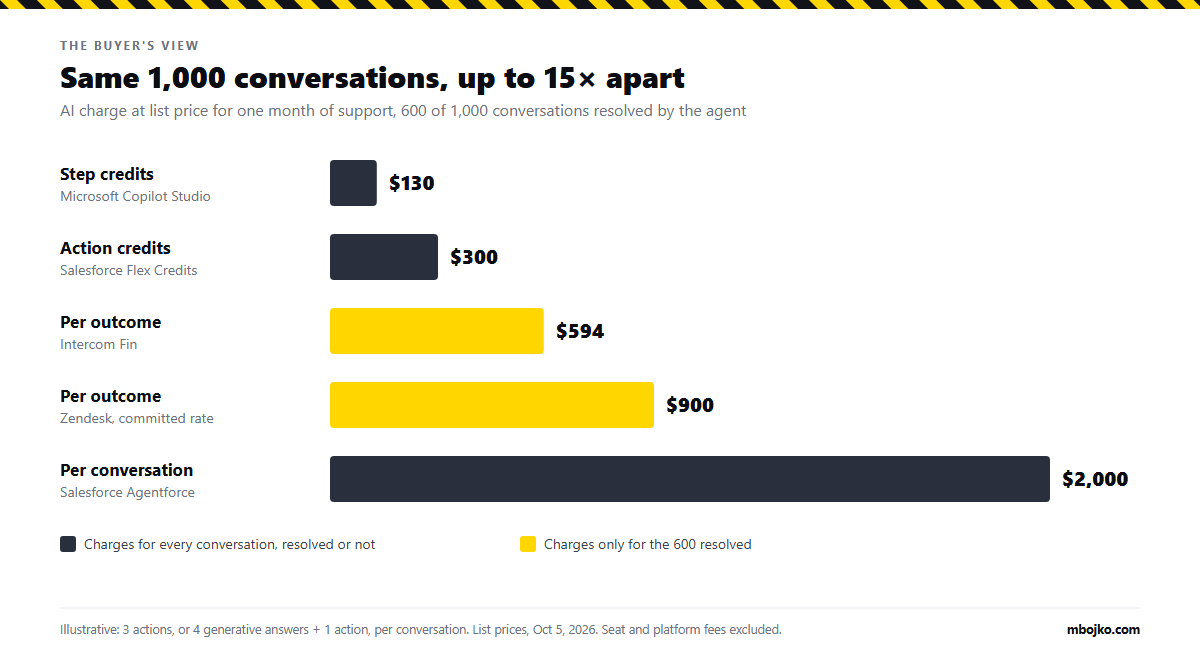
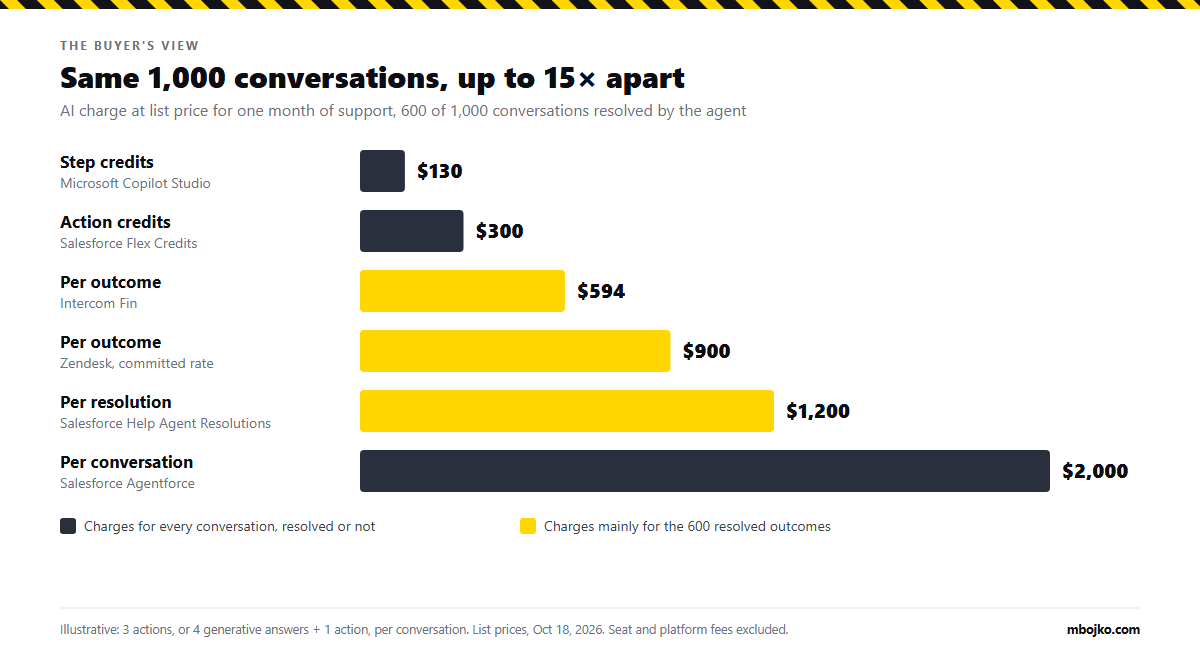
Update AI agent pricing models analysis after primary-source recheck
Dynatrace moves from the bundled row to vendor units (AI Units and Standard
Function Calls now on the public rate card). Adds Salesforce Help Agent
Resolutions to the outcome row and worked example, Intercom procedure
handoffs as billable outcomes, Zendesk verified-resolution tiers, Cursor's
current plans, GitHub per-session credit limits and Datadog's Autonomous
Agents attribution. Separates AI-app monitoring products from vendor
agents and distinguishes technical errors from runs that complete without
solving the task. Updates the cost-spread and risk infographics.

diff --git a/reports/ai-agent-pricing-models/index.html b/reports/ai-agent-pricing-models/index.html
@@ -121,34 +121,37 @@
   </div>
   <div class="article-body">
     <p class="lede">A follow-up to <a href="/reports/ai-agent-pricing-analysis/">How Observability Vendors Price AI Agents</a>. This piece widens the lens to customer service, CRM, workplace automation and coding agents, sets out the factors that matter to the vendor and to the buyer, proposes three pricing designs, and scores them against the models already on the market. Public sources only, retrieved October 5, 2026.</p>
-    <p>The September analysis found three meters in observability (credits, tokens and executions) and one consistent gap: no vendor tells a buyer what a task will cost before it runs. Outside observability the picture has more variety. Customer service vendors charge per resolved conversation, Salesforce sells both per-conversation and per-action pricing, Microsoft prices each type of agent step in credits, and the large coding-agent vendors have moved to token pass-through at API rates. Each choice moves risk between the vendor and the buyer in a different way, and that allocation of risk is the clearest way to compare them.</p>
+    <p>The September analysis found three meters in observability (credits, tokens and executions) and one consistent gap: no vendor tells a buyer what a task will cost before it runs. Outside observability the picture has more variety. Customer service vendors charge per resolved conversation, Salesforce sells per-conversation, per-action and per-resolution pricing, Microsoft prices each type of agent step in credits, and the large coding-agent vendors have moved to token pass-through at API rates. Each choice moves risk between the vendor and the buyer in a different way, and that allocation of risk is the clearest way to compare them.</p>
     <h2>Key Findings</h2>
     <ul>
-      <li><strong style="color:var(--white)">Six meters are in use across industries.</strong> Vendor credits, tokens at API rates, executions or conversations, bundling into an existing platform meter, seats or active users, and outcomes such as a resolved conversation. Observability uses the first five. Outcome pricing appears mainly in customer service.</li>
+      <li><strong style="color:var(--white)">Six meters are in use across industries.</strong> Vendor credits, tokens at API rates, executions or conversations, bundling into an existing platform meter, seats or active users, and outcomes such as a resolved conversation. Observability uses the first five. Outcome pricing appears mainly in customer service. Some observability products also price the monitoring of a customer's own AI applications, which is a different purchase from the vendor's agents and is noted separately below.</li>
       <li><strong style="color:var(--white)">Coding agents converged on token pass-through.</strong> GitHub moved every Copilot plan to token-based billing at API rates on June 1, 2026, Cursor made the same shift in June 2025, and Devin's pricing page now sells extra usage "consumed at API pricing."</li>
-      <li><strong style="color:var(--white)">Outcome pricing is visible but rare.</strong> Intercom charges $0.99 per Fin outcome and Zendesk $1.50 to $2.00 per automated resolution, yet a sample of 80 AI agent companies published by billing vendor Orb puts outcome-based pricing at 3.8%, against 91.3% using some usage component.</li>
+      <li><strong style="color:var(--white)">Outcome pricing is visible but rare.</strong> Intercom charges $0.99 per Fin outcome, Zendesk $1.50 to $2.00 per verified automated resolution and Salesforce lists Help Agent Resolutions at $2, yet a sample of 80 AI agent companies published by billing vendor Orb puts outcome-based pricing at 3.8%, against 91.3% using some usage component.</li>
       <li><strong style="color:var(--white)">The same workload can cost 15 times more under one meter than another.</strong> At list price, 1,000 support conversations range from about $130 to $2,000 depending on whether the vendor counts generative steps, actions, conversations or resolutions (worked example below). Seat and platform fees come on top in every case.</li>
-      <li><strong style="color:var(--white)">The missing piece is the same everywhere.</strong> Caps, budgets and usage estimators exist (Microsoft publishes an agent usage estimator, GitHub ran a preview bill before its switch), but no vendor reviewed commits to a price for a single task before it runs.</li>
+      <li><strong style="color:var(--white)">The missing piece is the same everywhere.</strong> Caps, budgets and usage estimators exist (Microsoft publishes an agent usage estimator, GitHub ran a preview bill before its switch), and GitHub lets a user set a soft AI credit limit per session, but no vendor reviewed commits to a price for a single task before it runs.</li>
     </ul>
     <h2>The Six Meters in Use</h2>
     <div class="table-wrap">
       <table>
-        <thead><tr><th>Meter</th><th>Observability examples</th><th>Examples elsewhere</th><th>Who carries the risk of a failed or repeated run</th></tr></thead>
+        <thead><tr><th>Meter</th><th>Observability examples</th><th>Examples elsewhere</th><th>Who pays for a completed run that does not solve the task</th></tr></thead>
         <tbody>
-          <tr><td><strong>Vendor credits</strong></td><td>Datadog AI Credits ($1.00 per credit on annual commit), Dash0 Agent0 ($0.60), New Relic compute capacity units (no public price)</td><td>Salesforce Flex Credits ($500 per 100,000, 20 credits per action, so $0.10 per action), Microsoft Copilot Credits ($200 per 25,000 pack, $0.01 pay-as-you-go), ServiceNow assists</td><td>Buyer</td></tr>
-          <tr><td><strong>Tokens</strong></td><td>Grafana (from $2 per 1M beyond the per-user pool), Coralogix ($1.50 per 1M), Elastic managed LLMs ($4.50 / $21 per 1M input / output)</td><td>GitHub Copilot since June 1, 2026, Cursor since June 2025, Devin extra usage</td><td>Buyer</td></tr>
-          <tr><td><strong>Executions or conversations</strong></td><td>Elastic Agent Builder (from $0.025 per execution), Grafana Agent Observability (from $1.50 per 1,000 generations)</td><td>Salesforce Agentforce at $2 per customer-facing conversation</td><td>Buyer</td></tr>
-          <tr><td><strong>Bundled into platform consumption</strong></td><td>Dynatrace (agent activity drives existing DPS capability usage), Honeycomb (AI features inside the repriced Pro plan), Riverbed (no premium at launch)</td><td>Microsoft 365 Copilot licensed users run many Copilot Studio agent features at no extra charge</td><td>Shared, through the platform rate</td></tr>
+          <tr><td><strong>Vendor credits or units</strong></td><td>Datadog AI Credits ($1.00 per credit on annual commit, $1.30 on demand), Dash0 Agent0 ($0.60), Dynatrace AI Units ($0.10 per unit, plus $0.001 per Standard Function Call), New Relic compute capacity units (no public price)</td><td>Salesforce Flex Credits ($500 per 100,000, 20 credits per action, so $0.10 per action), Microsoft Copilot Credits ($200 per 25,000 pack, $0.01 pay-as-you-go), ServiceNow assists</td><td>Buyer</td></tr>
+          <tr><td><strong>Tokens</strong></td><td>Grafana Assistant (from $2 per 1M beyond the per-user pool), Elastic managed LLMs ($4.50 / $21 per 1M input / output)</td><td>GitHub Copilot since June 1, 2026, Cursor (external models at API prices), Devin extra usage</td><td>Buyer</td></tr>
+          <tr><td><strong>Executions or conversations</strong></td><td>Elastic Agent Builder (from $0.025 per execution, errored responses not billed)</td><td>Salesforce Agentforce at $2 per customer-facing conversation</td><td>Buyer</td></tr>
+          <tr><td><strong>Bundled into platform consumption</strong></td><td>Honeycomb (AI features inside the repriced Pro plan), Riverbed (no premium at launch)</td><td>Microsoft 365 Copilot licensed users run many Copilot Studio agent features at no extra charge</td><td>Shared, through the platform rate</td></tr>
           <tr><td><strong>Seats or active users</strong></td><td>Grafana ($20 per active AI user with 40M tokens), Dash0 AI SDLC Insights ($10 per user)</td><td>Salesforce Agentforce add-ons ($125 per user per month, unmetered)</td><td>Vendor, up to fair-use limits</td></tr>
-          <tr><td><strong>Outcomes</strong></td><td>None published</td><td>Intercom Fin ($0.99 per outcome), Zendesk ($1.50 committed, $2.00 pay-as-you-go per automated resolution), Sierra (resolutions, saved cancellations, upsells)</td><td>Vendor</td></tr>
+          <tr><td><strong>Outcomes</strong></td><td>None published</td><td>Intercom Fin ($0.99 per outcome), Zendesk ($1.50 committed, $2.00 pay-as-you-go per verified resolution), Salesforce Help Agent Resolutions ($2), Sierra (resolutions, saved cancellations, upsells)</td><td>Mostly the vendor, depending on the outcome definition</td></tr>
         </tbody>
       </table>
     </div>
-    <p>Observability prices sit as reported in the <a href="/reports/ai-agent-pricing-analysis/">September 24 analysis</a>. Other prices come from vendor pages retrieved October 5, 2026. All are list prices and many are "from" values.</p>
+    <p>Observability prices sit as reported in the <a href="/reports/ai-agent-pricing-analysis/">September 24 analysis</a>, except Dynatrace, whose public rate card listed AI Units and Standard Function Calls when checked on October 18, 2026. Other prices come from vendor pages retrieved October 5 and October 18, 2026. All are list prices and many are "from" values.</p>
+    <p>The last column refers to tasks the agent completes without solving. Technical failures are a separate case: Elastic does not bill errored Agent Builder responses or failed workflow executions, and New Relic charges no compute capacity units for requests that fail due to service errors. Most activity-based price pages say nothing about runs that complete without solving the problem, which leaves those runs billable.</p>
+    <p>Several observability price lines cover a different purchase: monitoring or evaluating the customer's own AI applications. Coralogix charges $1.50 per 1M tokens for AI evaluation, Grafana Agent Observability bills from $1.50 per 1,000 generations, and Datadog AI Costs, Splunk Tokenomics and Cribl's AI Observability app track spend on outside AI providers. These are left out of the table above. Dash0's AI SDLC Insights ($10 per user), which analyzes code and pull requests, sits between the two categories.</p>
+    <p>Dynatrace's <a href="https://docs.dynatrace.com/docs/license/capabilities/appengine-functions/ai-units" target="_blank" rel="noopener">AI Units documentation</a>, published July 28, 2026, says AI Units meter inference by the driver LLM for agentic reasoning and LLM-based tools, recorded when agentic workflow actions run, when an LLM endpoint is called via API and when an LLM-based tool is called through MCP. Non-LLM tools are billed as Standard Function Calls. The rate card has no line naming Dynatrace Assist or a specific agent, so which of Dynatrace's own agents draw on these meters is not stated publicly.</p>
     <h3>What changed outside observability</h3>
-    <p><strong style="color:var(--white)">Coding agents.</strong> GitHub announced on April 27, 2026 that all Copilot plans would move to usage-based billing on June 1. Each plan now includes a monthly allotment of AI Credits equal in dollars to the plan price ($10 on Pro, $39 on Pro+, $19 per user on Business, $39 on Enterprise), and usage is calculated from input, output and cached tokens at each model's API rate. GitHub's stated reason was that a quick chat question and a multi-hour autonomous session could cost the user the same amount, which it called "no longer sustainable." Cursor made a similar move in June 2025 and published an apology on July 4, 2025, offering refunds for unexpected charges between June 16 and July 4 because it had not communicated the change clearly. GitHub's rollout included a preview bill and admin budgets at enterprise, cost center and user level.</p>
-    <p><strong style="color:var(--white)">CRM and workplace automation.</strong> Salesforce runs three parallel options for Agentforce: $2 per conversation for customer-facing agents, Flex Credits at $0.10 per standard action ($0.15 for voice actions), and per-user add-ons from $125 per month with unmetered use for employee-facing scenarios. Microsoft prices each kind of agent step separately: 1 Copilot Credit for a classic answer, 2 for a generative answer, 5 for an agent action, 10 for tenant graph grounding, with token-based surcharges for reasoning models. When prepaid capacity reaches 125%, Microsoft disables custom agents until capacity is added, and admins can set monthly limits per agent.</p>
-    <p><strong style="color:var(--white)">Customer service.</strong> Intercom counts an outcome when a customer confirms the issue is resolved, when the customer does not ask for more help after Fin responds, or when Fin completes a defined workflow. Zendesk includes 5 to 10 automated resolutions per agent seat per month depending on plan and charges for additional resolutions. Sierra's December 2024 explanation of its model says escalated cases are, in most cases, not charged. In all three, seats or a platform subscription are billed separately.</p>
+    <p><strong style="color:var(--white)">Coding agents.</strong> GitHub announced on April 27, 2026 that all Copilot plans would move to usage-based billing on June 1. Each plan now includes a monthly allotment of AI Credits equal in dollars to the plan price ($10 on Pro, $39 on Pro+, $19 per user on Business, $39 on Enterprise), and usage is calculated from input, output and cached tokens at each model's API rate. GitHub's stated reason was that a quick chat question and a multi-hour autonomous session could cost the user the same amount, which it called "no longer sustainable." Cursor made a similar move in June 2025 and published an apology on July 4, 2025, offering refunds for unexpected charges between June 16 and July 4 because it had not communicated the change clearly. Its current individual plans (Plus $8, Premium $30, Super $100 and Ultra $200 per month) include one weekly usage pool for Cursor's own models, and from Premium up, external models such as Claude, GPT and Gemini are billed at API list prices from prepaid credit. Earlier plans such as Pro and Pro+ continue as legacy plans with monthly pools. GitHub's rollout included a preview bill and admin budgets at enterprise, cost center and user level. Since July 2026, Copilot CLI and SDK users can also set an AI credit limit per session (public preview). The limit is soft: a response in progress completes, so usage can slightly exceed it, and GitHub recommends setting it above 30 credits because most model calls cost more than 20.</p>
+    <p><strong style="color:var(--white)">CRM and workplace automation.</strong> Salesforce lists several parallel options for Agentforce: $2 per conversation for customer-facing agents, Flex Credits at $0.10 per standard action ($0.15 for voice actions), Help Agent Resolutions at $2, a $5 per user per month Agentforce license that requires Flex Credits, and per-user add-ons from $125 per month with unmetered use for employee-facing scenarios. Conversation pricing cannot be used in the same org as Flex Credits, unused Flex Credits do not roll over into the next term, and the Pre-Commit buying model is marked as widely available later this year. Microsoft prices each kind of agent step separately: 1 Copilot Credit for a classic answer, 2 for a generative answer, 5 for an agent action, 10 for tenant graph grounding, with token-based surcharges for reasoning models. When prepaid capacity reaches 125%, Microsoft disables custom agents until capacity is added, and admins can set monthly limits per agent.</p>
+    <p><strong style="color:var(--white)">Customer service.</strong> Intercom charges $0.99 once per conversation for several kinds of outcome: a resolution, where no further help is requested after Fin's last answer; a procedure that Fin completes, including one configured to hand off to a human; and disqualification or self-serve routing. A plain handoff to the team without an outcome is not billed. Sales qualifications cost $9.99 each, and Fin used with another helpdesk carries a minimum of 50 outcomes per month. Zendesk includes 5 to 10 automated resolutions per agent seat per month depending on plan. Since May 18, 2026 it sorts AI conversations into three tiers: assisted escalation (a human finished the case), contained resolution (the AI finished, but an LLM review of the transcript did not confirm the request was resolved) and verified resolution (the LLM review confirmed it). Only verified resolutions draw on the allowance. A conversation ends 72 hours after the first email, 2 hours after the first message in messaging by default, or when a call hangs up. Sierra's December 2024 explanation of its model says escalated cases are, in most cases, not charged. In all three, seats or a platform subscription are billed separately.</p>
     <h2>Worked Example: 1,000 Support Conversations</h2>
     <p>The table applies list prices to one hypothetical month: 1,000 customer conversations, of which the agent resolves 600 without a human. Each conversation averages three agent actions, or four generative answers plus one action where the vendor meters by step type. The assumptions are illustrative, and the totals exclude seat and platform fees, which differ by vendor and plan.</p>
     <div class="table-wrap">
@@ -157,15 +160,16 @@
         <tbody>
           <tr><td><strong>Step credits</strong> (Microsoft Copilot Studio, pay-as-you-go)</td><td>1,000 × (4 × 2 + 1 × 5) credits × $0.01</td><td>$130</td><td>Yes</td></tr>
           <tr><td><strong>Action credits</strong> (Salesforce Flex Credits)</td><td>3,000 actions × $0.10</td><td>$300</td><td>Yes</td></tr>
-          <tr><td><strong>Outcome</strong> (Intercom Fin)</td><td>600 × $0.99</td><td>$594</td><td>No</td></tr>
+          <tr><td><strong>Outcome</strong> (Intercom Fin)</td><td>600 × $0.99</td><td>$594</td><td>Only if a configured procedure hands off to a human</td></tr>
           <tr><td><strong>Outcome</strong> (Zendesk, committed rate)</td><td>600 × $1.50, before included resolutions</td><td>$900</td><td>No</td></tr>
+          <tr><td><strong>Outcome</strong> (Salesforce Help Agent Resolutions)</td><td>600 × $2</td><td>$1,200</td><td>No</td></tr>
           <tr><td><strong>Conversation</strong> (Salesforce per conversation)</td><td>1,000 × $2</td><td>$2,000</td><td>Yes</td></tr>
         </tbody>
       </table>
     </div>
-    <p>The spread runs from $130 to $2,000, a factor of about 15. Two points follow. First, the unit price on its own predicts very little: the cheapest unit ($0.01 per credit) and the most expensive unit ($2 per conversation) bill different objects. Second, the outcome meters charge nothing for the 400 unresolved conversations, so the buyer's bill rises when the agent performs better, while the activity meters charge for every attempt regardless of result. A buyer whose resolution rate is low pays relatively less under outcome pricing, and one whose rate is high may pay less under action pricing. The break-even depends on the resolution rate, the number of steps per conversation and the seat fees that sit outside this table.</p>
+    <p>The spread runs from $130 to $2,000, a factor of about 15. Two points follow. First, the unit price on its own predicts very little: the cheapest unit ($0.01 per credit) and the most expensive unit ($2 per conversation) bill different objects. Second, the outcome meters charge little or nothing for the 400 unresolved conversations (at Intercom, a configured procedure that hands off to a human is billed as an outcome), so the buyer's bill rises when the agent performs better, while the activity meters charge for every attempt regardless of result. A buyer whose resolution rate is low pays relatively less under outcome pricing, and one whose rate is high may pay less under action pricing. The break-even depends on the resolution rate, the number of steps per conversation and the seat fees that sit outside this table.</p>
     <figure class="report-figure" onclick="openLightbox('/assets/reports-ai-pricing-models-cost-spread.svg', this.querySelector('img').alt)">
-      <img src="/assets/reports-ai-pricing-models-cost-spread.svg" alt="Bar chart: AI charge at list price for 1,000 support conversations with 600 resolved by the agent. Microsoft step credits $130, Salesforce Flex Credits $300, Intercom Fin $594, Zendesk $900, Salesforce per conversation $2,000. Outcome meters charge only for resolved conversations." loading="lazy">
+      <img src="/assets/reports-ai-pricing-models-cost-spread.svg" alt="Bar chart: AI charge at list price for 1,000 support conversations with 600 resolved by the agent. Microsoft step credits $130, Salesforce Flex Credits $300, Intercom Fin $594, Zendesk $900, Salesforce Help Agent Resolutions $1,200, Salesforce per conversation $2,000. Outcome meters charge mainly for resolved conversations." loading="lazy">
       <figcaption class="report-figure-caption"><span>Buyer view: cost spread</span><span>Click to enlarge</span></figcaption>
     </figure>
     <h2>What Matters to the Vendor</h2>
@@ -182,10 +186,10 @@
     <ol>
       <li><strong style="color:var(--white)">Predictability.</strong> Finance needs a number at budget time, and engineering needs to know whether running a task is affordable before running it.</li>
       <li><strong style="color:var(--white)">Value alignment.</strong> Whether the bill tracks something the business values (a resolved ticket, a merged fix, a shorter incident) or only activity.</li>
-      <li><strong style="color:var(--white)">Failure risk.</strong> Who pays when the agent fails, retries or is abandoned halfway. Under every activity meter in this review, the buyer does.</li>
+      <li><strong style="color:var(--white)">Failure risk.</strong> Who pays when the agent fails, retries or is abandoned halfway. Two cases need separating. Technical errors are often excluded: Elastic does not bill errored responses and New Relic charges nothing for requests that fail due to service errors. Runs that complete without solving the task are billed under every activity meter in this review, so the buyer pays for them.</li>
       <li><strong style="color:var(--white)">Control.</strong> Caps per user, team, agent and automation, with a documented behavior at the cap: stop, degrade or bill on demand.</li>
       <li><strong style="color:var(--white)">Comparability.</strong> The ability to compare vendors and to explain the bill internally. Vendor-defined credits score lowest here, because a credit means something different at each vendor.</li>
-      <li><strong style="color:var(--white)">Auditability.</strong> Whether the buyer can verify the count independently. Outcome definitions measured by the vendor's own systems, such as Intercom counting silence after an answer as an outcome, need checking against the buyer's own data.</li>
+      <li><strong style="color:var(--white)">Auditability.</strong> Whether the buyer can verify the count independently. Outcome definitions measured by the vendor's own systems need checking against the buyer's own data: Intercom counts the absence of a further request after Fin's last answer as a resolution, and Zendesk decides between a contained and a verified resolution with its own LLM review of the transcript.</li>
       <li><strong style="color:var(--white)">Double charging.</strong> In observability the AI meter sits on top of the telemetry meter, so the total cost of an investigation includes both the agent's charge and the data it reads.</li>
       <li><strong style="color:var(--white)">Effect on internal adoption.</strong> Whether the pricing model lets teams use agents freely within a budget, or pushes the organization toward approval steps before each run. The next section looks at this in more detail.</li>
     </ol>
@@ -194,7 +198,7 @@
     <p>Two effects follow. The first is pace: if running an investigation agent requires a ticket or a manager's sign-off, engineers use it for fewer incidents, which lowers both the cost and the value the organization gets from the purchase. The second is shadow AI: when the sanctioned agent is gated, some employees turn to tools outside the organization's control, such as personal subscriptions or free tiers of general-purpose assistants. That moves spend outside procurement's view and can move company data to services without a data processing agreement. Spend-tracking products have started to cover this ground. Datadog's AI Costs, for example, tracks spend on outside providers including GitHub Copilot and Cursor, as noted in the September analysis.</p>
     <p>The models differ in how much internal control they invite:</p>
     <ul>
-      <li><strong style="color:var(--white)">Tokens and credits</strong> tend to produce the most gating, because the cost of a single run is unknown in advance and a monthly pool can be exhausted by a few heavy users.</li>
+      <li><strong style="color:var(--white)">Tokens and credits</strong> tend to produce the most gating, because the cost of a single run is unknown in advance and a monthly pool can be exhausted by a few heavy users. Automated runs complicate per-user controls: Datadog attributes investigations triggered by a monitor, and agent runs in service-account workflows, to "Autonomous Agents" instead of a user, so they fall under the organization-wide limit rather than a person's allowance.</li>
       <li><strong style="color:var(--white)">Executions or conversations</strong> are easier to budget per run, though volume still needs watching.</li>
       <li><strong style="color:var(--white)">Seats and bundles</strong> remove per-run decisions for licensed users, and move the restriction to who gets a license.</li>
       <li><strong style="color:var(--white)">Outcomes</strong> reduce the fear of paying for failed runs, though the total still grows with use.</li>
@@ -206,7 +210,7 @@
     <p>The three designs below are proposals, each built from mechanisms that already exist in some form on the market. None is offered in full by any vendor reviewed.</p>
     <h3>Design A: Quoted-ceiling task pricing</h3>
     <p>Before a task starts, the agent returns an estimate and a ceiling in the vendor's existing unit, for example "this investigation is likely to use 4 to 6 credits, ceiling 8." The buyer approves it, or a policy approves it automatically below a threshold set per team. The bill is actual consumption, never above the ceiling. Retries inside the same task count against the same ceiling, and consumption above it is absorbed by the vendor. Underneath, the meter stays as it is today (credits or tokens), so the design adds a pricing commitment without introducing a new unit.</p>
-    <p>Building blocks already exist: Datadog publishes average credits per action type, Microsoft publishes an agent usage estimator and per-agent monthly limits, and GitHub ran a preview bill before switching to tokens.</p>
+    <p>Building blocks already exist: Datadog publishes average credits per action type, Microsoft publishes an agent usage estimator and per-agent monthly limits, GitHub ran a preview bill before switching to tokens, and GitHub's per-session AI credit limit lets the buyer set a soft cap on a single session. The missing step is a vendor-side estimate and a ceiling the vendor stands behind.</p>
     <ul>
       <li><strong style="color:var(--white)">Pros:</strong> predictability per task, which is the gap identified in September; the vendor carries the cost of runaway loops and repeated attempts; it works on top of any existing meter; ceilings in currency are comparable across vendors for similar tasks.</li>
       <li><strong style="color:var(--white)">Cons:</strong> the vendor needs an accurate cost estimator, and estimation errors land on its margin; vendors have an incentive to pad ceilings, so buyers need data on actual against ceiling; open-ended work such as a novel incident investigation will produce wide ranges; an approval step adds latency unless policies handle it; activity is still what gets billed, rather than value.</li>
@@ -261,7 +265,7 @@
     </div>
     <p>No row scores well on every factor. The pattern in both tables is a trade between the two sides: the models that protect the vendor's margin best (tokens, credits) leave the buyer with the failure risk and the least predictability, and the models that align best with buyer value (outcomes) put the vendor's margin and revenue forecast at risk. Each of the three designs targets one part of that gap.</p>
     <figure class="report-figure" onclick="openLightbox('/assets/reports-ai-pricing-models-risk.svg', this.querySelector('img').alt)">
-      <img src="/assets/reports-ai-pricing-models-risk.svg" alt="Scale from buyer pays to vendor pays. Tokens, vendor credits and executions sit on the buyer side, bundled pricing in the middle, seats and outcomes on the vendor side. Proposed designs: B reserved capacity near the middle, A quoted ceiling toward the vendor, C verified outcome near the vendor side." loading="lazy">
+      <img src="/assets/reports-ai-pricing-models-risk.svg" alt="Scale from buyer pays to vendor pays. For runs that complete without solving the task: tokens, credits and AI units, and executions sit on the buyer side, bundled pricing in the middle, seats and outcomes on the vendor side. Proposed designs: B reserved capacity near the middle, A quoted ceiling toward the vendor, C verified outcome near the vendor side." loading="lazy">
       <figcaption class="report-figure-caption"><span>Risk view: who pays for a failed run</span><span>Click to enlarge</span></figcaption>
     </figure>
     <h2>Recommendation</h2>
@@ -280,19 +284,20 @@
     <p>The recommendation has limits. Design A depends on cost estimators that vendors have not shown publicly at task level, and its value to buyers depends on ceilings being reasonably tight. It also keeps billing tied to activity. Where outcomes are discrete and the buyer can verify them independently, as with support tickets, <strong style="color:var(--white)">Design C</strong> aligns better with value and the customer service market already shows buyers will accept per-outcome prices. Where usage is steady and high, such as scheduled internal automation, <strong style="color:var(--white)">Design B</strong> gives finance the simplest number. A buyer evaluating any of the three should ask for 90 days of actual consumption data on comparable workloads before committing.</p>
     <h2>Questions to Ask Under Each Model</h2>
     <ul>
-      <li><strong style="color:var(--white)">Credits, tokens or executions:</strong> what is the distribution of units per task, including the 95th percentile, and do failed or abandoned runs consume units?</li>
+      <li><strong style="color:var(--white)">Credits, tokens or executions:</strong> what is the distribution of units per task, including the 95th percentile? Are runs that end in a technical error billed, and are runs that complete without solving the task billed?</li>
       <li><strong style="color:var(--white)">Outcomes:</strong> who measures the outcome, with which data, can the buyer audit it, and what is the dispute window?</li>
       <li><strong style="color:var(--white)">Seats and bundles:</strong> what fair-use limits apply, and what happens to price at renewal once usage data exists?</li>
       <li><strong style="color:var(--white)">Any model:</strong> what happens at the cap, and does the agent stop mid-task, finish the task, or switch to on-demand billing?</li>
       <li><strong style="color:var(--white)">Internally, before signing:</strong> who will be allowed to start an agent, what approval will a run need, and how will the organization notice if teams move to unsanctioned AI tools instead?</li>
     </ul>
     <h2>Method and Limits</h2>
-    <p>Vendor prices were taken from the vendors' own pricing pages and documentation on October 5, 2026: Salesforce, Intercom, Zendesk, Microsoft Learn, GitHub Docs and the GitHub blog, Devin and Sierra. Observability prices are as reported in the September 24 analysis and were not re-checked. Several third-party pricing guides surfaced in search were stale (one still described Devin's pricing in agent compute units, which no longer appear on Devin's pricing page) and were not used for prices. The Gartner figures come from CIO Dive's July 6, 2026 coverage of a July 1 Gartner release, because the Gartner page could not be retrieved directly. The 3.8% outcome-pricing share comes from Orb, a usage-billing software vendor, based on a sample of 80 companies; its method is only partly described. ServiceNow's assist-based model is mentioned without prices, because no public ServiceNow price page was found. The section on organizational culture and shadow AI describes likely mechanisms; no public study measuring them was found. The worked example uses list prices and illustrative assumptions and excludes seat and platform fees. The three designs are analytical proposals, and the ratings are qualitative judgments.</p>
+    <p>Vendor prices were taken from the vendors' own pricing pages and documentation on October 5, 2026 (Salesforce, Intercom, Zendesk, Microsoft, GitHub, Devin and Sierra) and rechecked on October 18, 2026 together with Intercom's Fin pricing page, Zendesk's resolution tiers article, Cursor's pricing documentation, GitHub's session limits documentation, Datadog's pricing page and AI credit limits, Elastic's billing dimensions, New Relic's compute pricing and Dynatrace's rate card. Observability prices are as reported in the September 24 analysis and were not re-checked. Several third-party pricing guides surfaced in search were stale (one still described Devin's pricing in agent compute units, which no longer appear on Devin's pricing page) and were not used for prices. The Gartner figures come from CIO Dive's July 6, 2026 coverage of a July 1 Gartner release, because the Gartner page could not be retrieved directly. The 3.8% outcome-pricing share comes from Orb, a usage-billing software vendor, based on a sample of 80 companies; its method is only partly described. ServiceNow's assist-based model is mentioned without prices, because no public ServiceNow price page was found. The section on organizational culture and shadow AI describes likely mechanisms; no public study measuring them was found. The worked example uses list prices and illustrative assumptions and excludes seat and platform fees. The three designs are analytical proposals, and the ratings are qualitative judgments.</p>
+    <p>Updated October 18, 2026: after a recheck of primary sources, Dynatrace moved from the bundled row to vendor units following new public rate-card lines; Salesforce Help Agent Resolutions was added to the outcome row and the worked example; Intercom's billable outcomes now include procedure handoffs; Zendesk's verified-resolution tiers, Cursor's current plans and GitHub's per-session limits were added; products that monitor customers' own AI applications were separated from vendor agents; and the failure-risk wording now distinguishes technical errors from runs that complete without solving the task. The three infographics were updated accordingly.</p>
     <h2>Sources</h2>
     <ol class="sources">
       <li>Earlier analysis: <a href="/reports/ai-agent-pricing-analysis/">How Observability Vendors Price AI Agents</a>, September 2026, with its observability vendor sources.</li>
       <li>Salesforce: <a href="https://www.salesforce.com/agentforce/pricing/" target="_blank" rel="noopener">Agentforce pricing</a>.</li>
-      <li>Microsoft: <a href="https://learn.microsoft.com/en-us/microsoft-copilot-studio/requirements-messages-management" target="_blank" rel="noopener">Copilot Studio billing rates and management</a>, <a href="https://www.microsoft.com/en-us/microsoft-365-copilot/pricing/copilot-studio" target="_blank" rel="noopener">Copilot Studio pricing</a>.</li>
+      <li>Microsoft: <a href="https://learn.microsoft.com/en-us/microsoft-copilot-studio/requirements-messages-management" target="_blank" rel="noopener">Copilot Studio billing rates and management</a>, <a href="https://www.microsoft.com/en-us/microsoft-365-copilot/pricing/copilot-studio" target="_blank" rel="noopener">Copilot Studio pricing</a>, <a href="https://www.microsoft.com/licensing/guidance/Microsoft-Copilot-Studio" target="_blank" rel="noopener">Copilot Studio licensing guidance</a>.</li>
       <li>GitHub: <a href="https://github.blog/news-insights/company-news/github-copilot-is-moving-to-usage-based-billing/" target="_blank" rel="noopener">GitHub Copilot is moving to usage-based billing, April 27, 2026</a>, <a href="https://docs.github.com/en/copilot/concepts/billing/copilot-requests" target="_blank" rel="noopener">Copilot requests documentation</a>.</li>
       <li>Cursor: <a href="https://cursor.com/blog/june-2025-pricing" target="_blank" rel="noopener">pricing update and apology, July 4, 2025</a>.</li>
       <li>Devin: <a href="https://devin.ai/pricing" target="_blank" rel="noopener">pricing</a>.</li>
@@ -301,6 +306,14 @@
       <li>Sierra: <a href="https://sierra.ai/blog/outcome-based-pricing-for-ai-agents" target="_blank" rel="noopener">Outcome-based pricing for AI agents, December 10, 2024</a>.</li>
       <li>Gartner via CIO Dive: <a href="https://www.ciodive.com/news/agentic-ai-disrupt-234-billion-saas-spending/824530/" target="_blank" rel="noopener">coverage of Gartner's July 1 release, July 6, 2026</a>.</li>
       <li>Orb: <a href="https://www.withorb.com/blog/ai-agent-pricing-trends" target="_blank" rel="noopener">AI agent pricing trends</a>.</li>
+      <li>Dynatrace: <a href="https://www.dynatrace.com/pricing/rate-card/" target="_blank" rel="noopener">rate card</a>, <a href="https://docs.dynatrace.com/docs/license/capabilities/appengine-functions/ai-units" target="_blank" rel="noopener">AI Units documentation</a>.</li>
+      <li>Intercom Fin: <a href="https://fin.ai/pricing" target="_blank" rel="noopener">pricing</a>.</li>
+      <li>Zendesk: <a href="https://support.zendesk.com/hc/en-us/articles/9570369117338-About-automated-resolution-tiers" target="_blank" rel="noopener">About automated resolution tiers</a>.</li>
+      <li>Cursor: <a href="https://cursor.com/docs/models-and-pricing" target="_blank" rel="noopener">models and pricing documentation</a>.</li>
+      <li>GitHub: <a href="https://docs.github.com/en/copilot/how-tos/copilot-cli/use-copilot-cli/set-session-limit" target="_blank" rel="noopener">set a session limit in Copilot CLI</a>, <a href="https://github.blog/changelog/2026-07-01-set-ai-credit-session-limits-in-copilot-cli-and-sdk/" target="_blank" rel="noopener">changelog, July 1, 2026</a>.</li>
+      <li>Datadog: <a href="https://www.datadoghq.com/pricing/?product=ai-credits" target="_blank" rel="noopener">pricing</a>, <a href="https://docs.datadoghq.com/account_management/billing/ai_credit_limits/" target="_blank" rel="noopener">AI Credit Limits</a>.</li>
+      <li>Elastic: <a href="https://www.elastic.co/docs/deploy-manage/cloud-organization/billing/elastic-observability-billing-dimensions" target="_blank" rel="noopener">Observability billing dimensions</a>.</li>
+      <li>New Relic: <a href="https://newrelic.com/pricing/compute" target="_blank" rel="noopener">Compute pricing</a>.</li>
     </ol>
   </div>
   <div class="article-actions">
